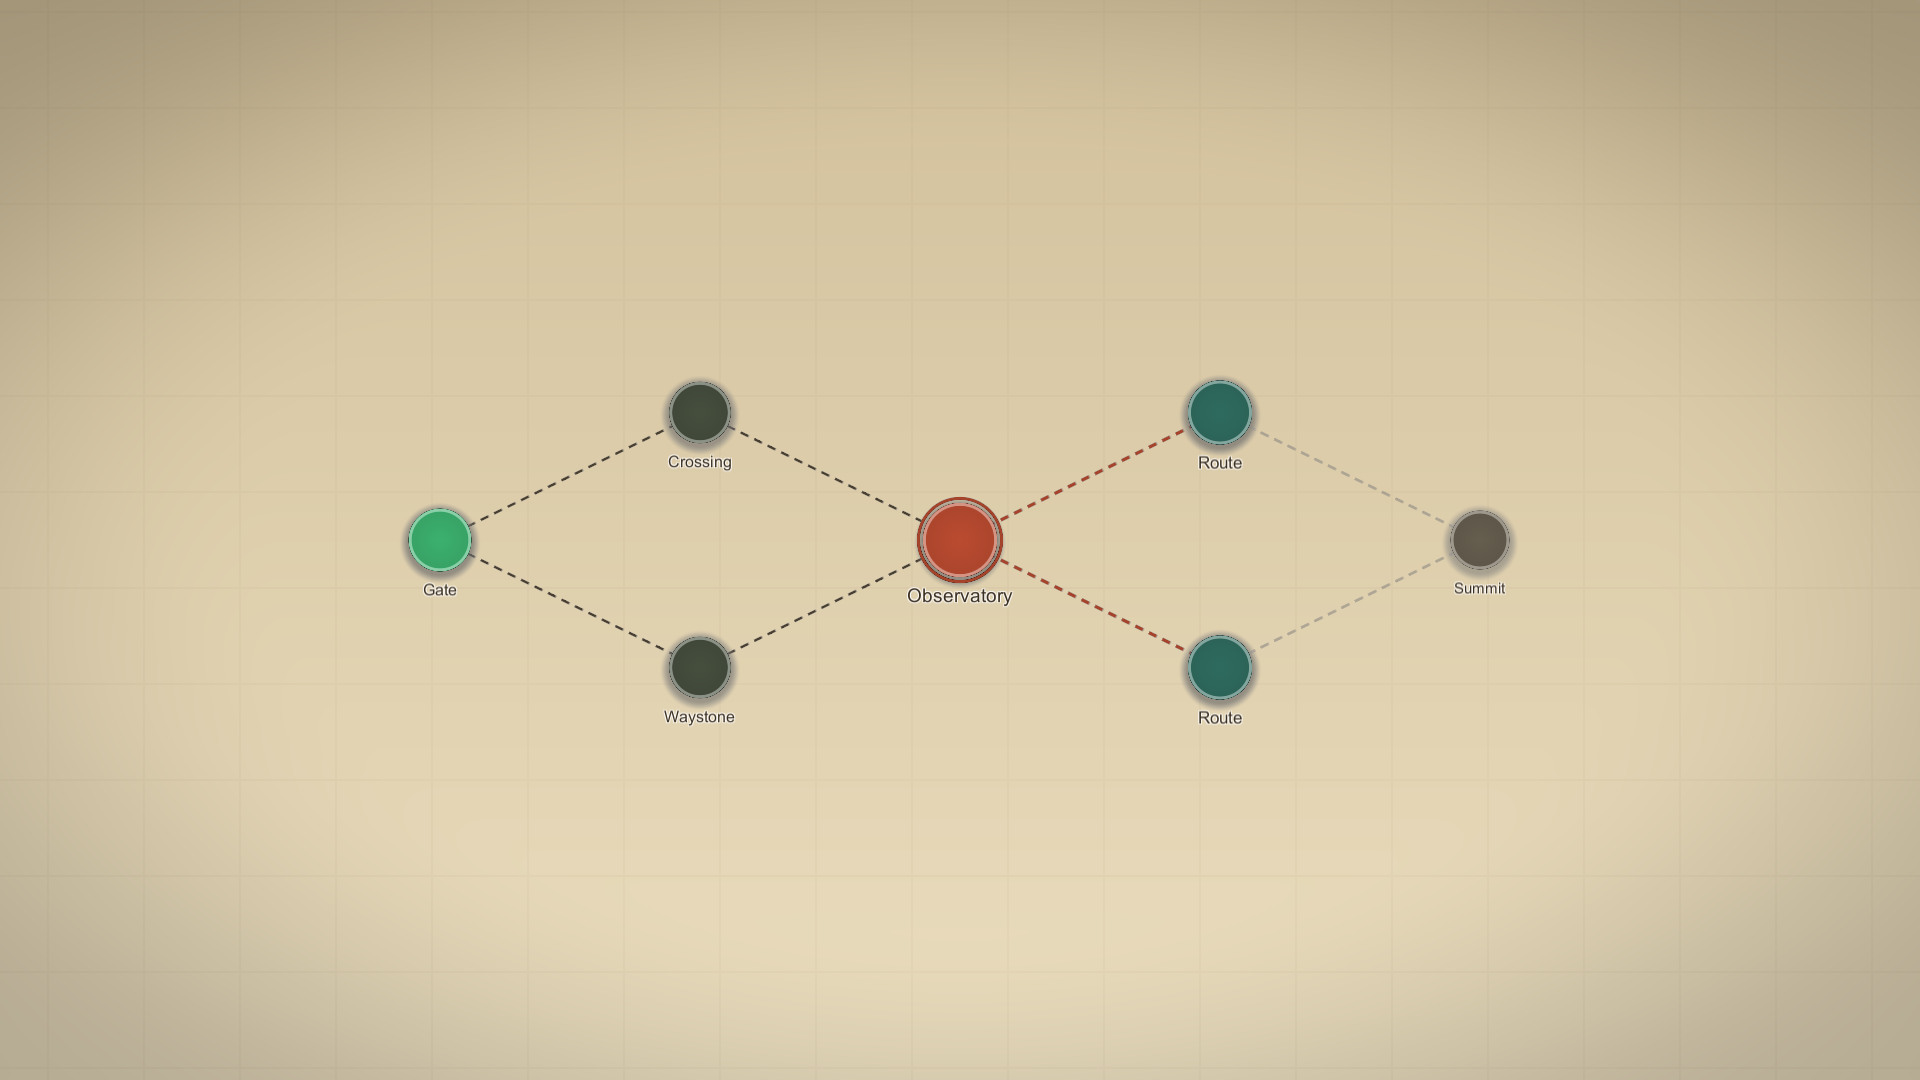
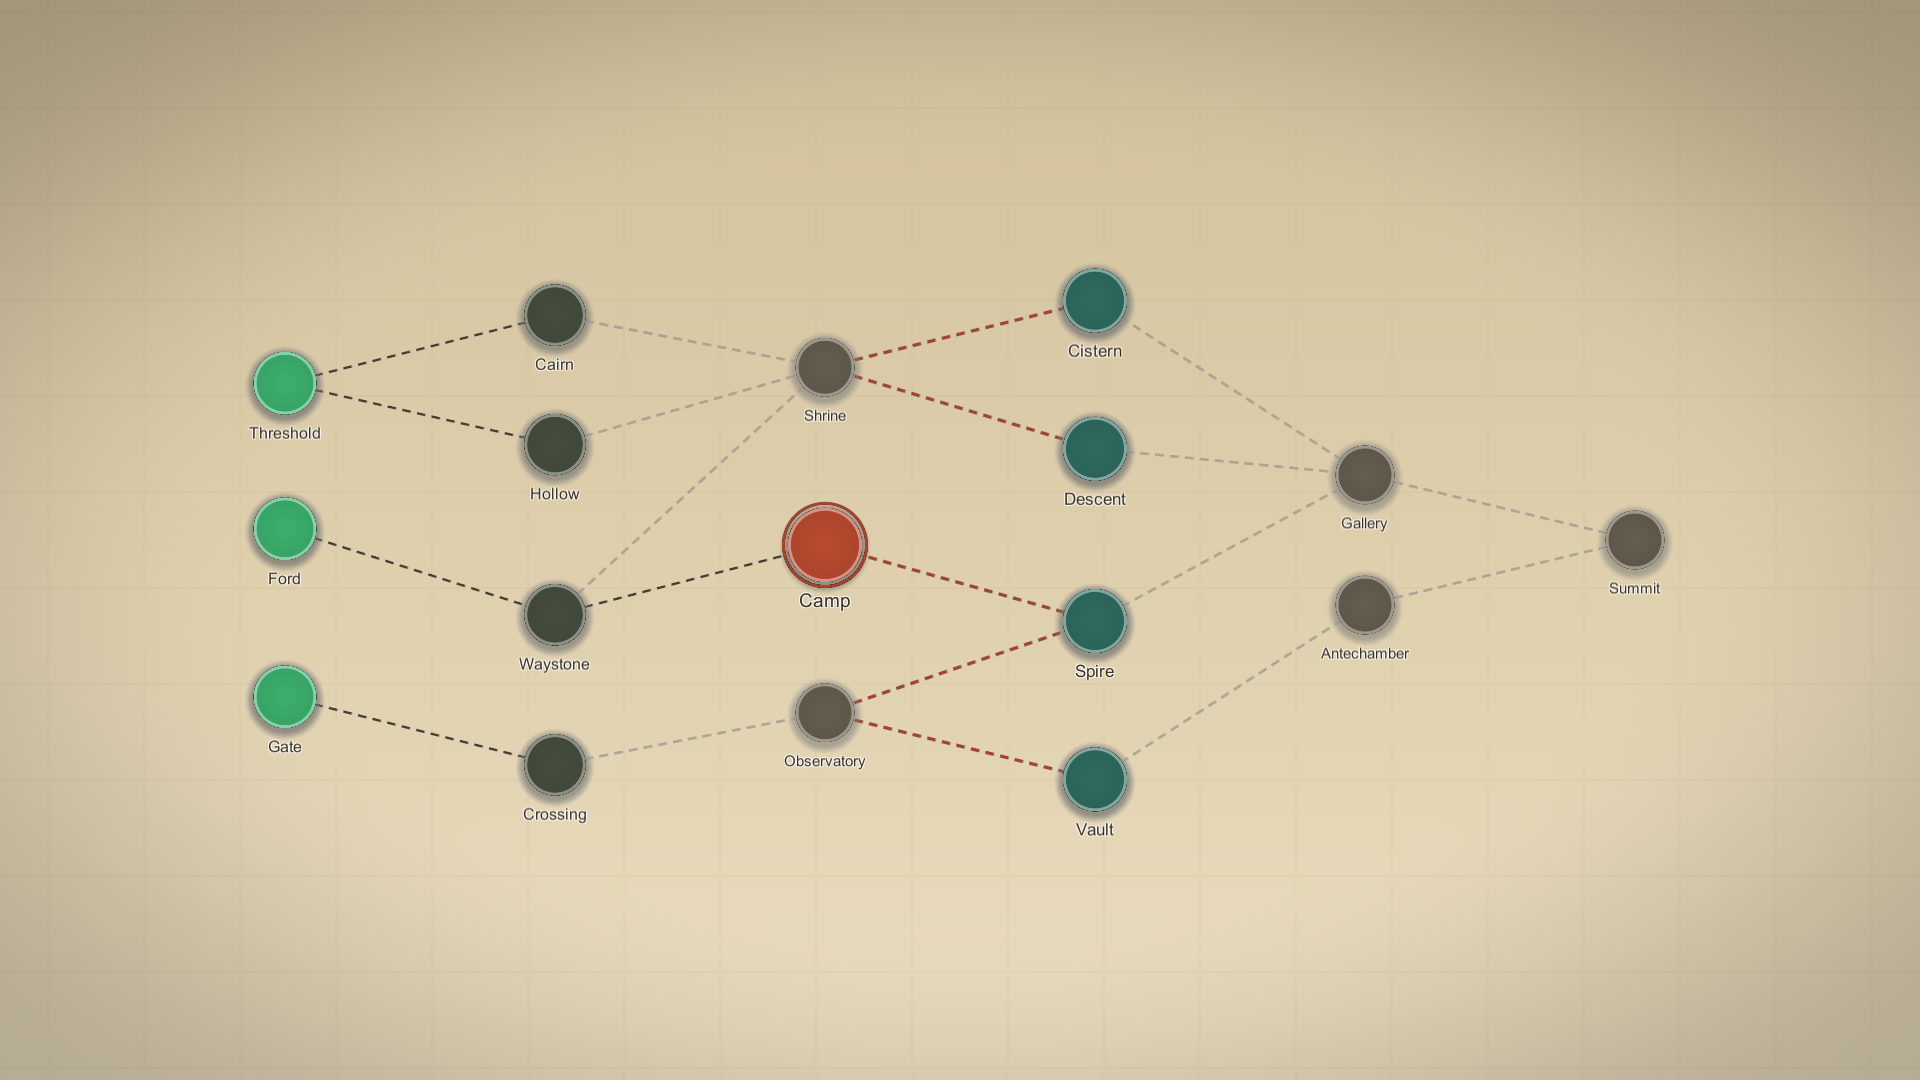
docs: Abyss-shaped map example, flow direction, offsets and padding
The map example was a symmetric diamond. It is now a layered DAG with varying
layer widths (3,4,3,4,2,1), siblings scattered on a min-gap ladder so same-width
layers stop mirroring each other, and a monotone staircase edge walk so roads
merge without crossing -- the shape a shipped descent map actually has. Still a
single summit.

Documents the new MapFlowDirection (bottom-to-top, top-to-bottom, left-to-right,
right-to-left) and spells out the three framing controls that are easy to
confuse: margins reserve screen area, content padding insets the content, and
pan slides it within what is left.

diff --git a/docs/reference/authoring-assets.md b/docs/reference/authoring-assets.md
@@ -1,9 +1,9 @@
 # Authoring assets
 
-27 types in this area.
+28 types in this area.
 
 !!! abstract "On this page"
-    [AuthoringDiagnosticCodes](#authoringdiagnosticcodes) &middot; [BlueprintEdgeAuthoring](#blueprintedgeauthoring) &middot; [BlueprintEdgeOverrideAuthoring](#blueprintedgeoverrideauthoring) &middot; [BlueprintNodeAuthoring](#blueprintnodeauthoring) &middot; [CompiledMapNodeType](#compiledmapnodetype) &middot; [CompiledMapTheme](#compiledmaptheme) &middot; [ForbiddenAdjacencyAuthoring](#forbiddenadjacencyauthoring) &middot; [ForcedNodeAuthoring](#forcednodeauthoring) &middot; [LayerRangeAuthoring](#layerrangeauthoring) &middot; [MapAuthoringCompiler](#mapauthoringcompiler) &middot; [MapBlueprintAsset](#mapblueprintasset) &middot; [MapBlueprintCompilation](#mapblueprintcompilation) &middot; [MapConstraintAsset](#mapconstraintasset) &middot; [MapEdgeGeometryKind](#mapedgegeometrykind) &middot; [MapLayoutOrientation](#maplayoutorientation) &middot; [MapNodeTypeAsset](#mapnodetypeasset) &middot; [MapNodeTypeCompilation](#mapnodetypecompilation) &middot; [MapPropertyAuthoring](#mappropertyauthoring) &middot; [MapRulesAsset](#maprulesasset) &middot; [MapRulesCompilation](#maprulescompilation) &middot; [MapThemeAsset](#mapthemeasset) &middot; [MapThemeCompilation](#mapthemecompilation) &middot; [MapThemeLimits](#mapthemelimits) &middot; [NodeTypeWeightAuthoring](#nodetypeweightauthoring) &middot; [NodeTypeWeightOverrideAuthoring](#nodetypeweightoverrideauthoring) &middot; [QuotaAuthoring](#quotaauthoring) &middot; [ZoneAuthoring](#zoneauthoring)
+    [AuthoringDiagnosticCodes](#authoringdiagnosticcodes) &middot; [BlueprintEdgeAuthoring](#blueprintedgeauthoring) &middot; [BlueprintEdgeOverrideAuthoring](#blueprintedgeoverrideauthoring) &middot; [BlueprintNodeAuthoring](#blueprintnodeauthoring) &middot; [CompiledMapNodeType](#compiledmapnodetype) &middot; [CompiledMapTheme](#compiledmaptheme) &middot; [ForbiddenAdjacencyAuthoring](#forbiddenadjacencyauthoring) &middot; [ForcedNodeAuthoring](#forcednodeauthoring) &middot; [LayerRangeAuthoring](#layerrangeauthoring) &middot; [MapAuthoringCompiler](#mapauthoringcompiler) &middot; [MapBlueprintAsset](#mapblueprintasset) &middot; [MapBlueprintCompilation](#mapblueprintcompilation) &middot; [MapConstraintAsset](#mapconstraintasset) &middot; [MapEdgeGeometryKind](#mapedgegeometrykind) &middot; [MapFlowDirection](#mapflowdirection) &middot; [MapLayoutOrientation](#maplayoutorientation) &middot; [MapNodeTypeAsset](#mapnodetypeasset) &middot; [MapNodeTypeCompilation](#mapnodetypecompilation) &middot; [MapPropertyAuthoring](#mappropertyauthoring) &middot; [MapRulesAsset](#maprulesasset) &middot; [MapRulesCompilation](#maprulescompilation) &middot; [MapThemeAsset](#mapthemeasset) &middot; [MapThemeCompilation](#mapthemecompilation) &middot; [MapThemeLimits](#mapthemelimits) &middot; [NodeTypeWeightAuthoring](#nodetypeweightauthoring) &middot; [NodeTypeWeightOverrideAuthoring](#nodetypeweightoverrideauthoring) &middot; [QuotaAuthoring](#quotaauthoring) &middot; [ZoneAuthoring](#zoneauthoring)
 
 ## AuthoringDiagnosticCodes
 
@@ -660,6 +660,31 @@ public enum MapEdgeGeometryKind
 
 !!! warning "Not yet documented"
     This type has no summary comment in the source. Its name and signature are accurate; the description is missing.
+
+---
+
+## MapFlowDirection
+
+```csharp
+public enum MapFlowDirection
+```
+
+`BranchWeaver.Authoring` &middot; <small>Runtime/Authoring/MapStyleTokens.cs</small>
+
+Which screen direction the map's progress runs in.
+
+The theme decides which axis layers advance along; this decides which
+way along that axis, and is applied when normalized positions are converted
+for display. It is presentation-only, so flipping a map cannot change the
+generated graph, a save, or a fingerprint -- a saved run reopened after a
+direction change is still the same run, drawn the other way round.
+
+| Value | Meaning |
+| --- | --- |
+| `BottomToTop` | Progress runs upward. |
+| `TopToBottom` | Progress runs downward, as in a descent. |
+| `LeftToRight` | Progress runs rightward. |
+| `RightToLeft` | Progress runs leftward, for right-to-left reading orders. |
 
 ---
 

diff --git a/docs/tutorials/styling-your-map.md b/docs/tutorials/styling-your-map.md
@@ -126,6 +126,7 @@ This is how you make the map adjustable on screen:
 
 | Token | Effect |
 | --- | --- |
+| `FlowDirection` | `BottomToTop`, `TopToBottom`, `LeftToRight`, `RightToLeft` |
 | `FitMode` | `Fit`, `Fill`, `FixedScale`, `Stretch` |
 | `MarginLeft/Right/Top/Bottom` | Fractions of the area reserved for **your** interface |
 | `RespectSafeArea` | Inset into the device safe area, for notches and home indicators |
@@ -135,6 +136,42 @@ This is how you make the map adjustable on screen:
 | `PanOverscroll` | How far past the edge panning may rubber-band |
 
 Margins are fractions, so one style works across resolutions.
+
+#### Which way the map runs
+
+`FlowDirection` gives all four:
+
+| Direction | Reads as |
+| --- | --- |
+| `BottomToTop` | Climbing. The classic run-map direction, and the default. |
+| `TopToBottom` | Descending. |
+| `LeftToRight` | A journey across, western reading order. |
+| `RightToLeft` | A journey across, right-to-left reading order. |
+
+The **theme** picks which axis layers advance along; the **style** picks which way along
+it. Direction is applied when normalized positions are converted for display, so it is
+presentation-only: flipping a map cannot change the generated graph, a save, or a
+fingerprint. A run saved climbing and reopened descending is still the same run, drawn
+the other way round.
+
+#### Offsets and padding
+
+Three separate controls, easy to confuse:
+
+| Control | Units | What it does |
+| --- | --- | --- |
+| `MarginLeft/Right/Top/Bottom` | Fraction of the area | Reserves screen space for **your** interface. The map never draws there. |
+| `ContentPadding` | Presentation pixels | Breathing room **around the map content** when fitting, so nodes at the edge are not flush against it. |
+| `MapViewportFrame.Pan` | Pixels | An explicit offset of the map inside its area, clamped by the pan limits. |
+
+So: margins push the *area* in, padding pushes the *content* in, and pan slides the
+content within what is left.
+
+```csharp
+var framing = style.Framing;          // read the resolved values
+frame.Pan = new Vector2(-120f, 40f);  // nudge, clamped automatically
+frame.FrameAll();                     // reset pan and zoom, refit
+```
 
 Add **BranchWeaver > Map Viewport Frame** to the map hierarchy to apply them, then:
 

diff --git a/docs/reference/index.md b/docs/reference/index.md
@@ -1,6 +1,6 @@
 # API reference
 
-Every public type in BranchWeaver, grouped by what it is for rather than by namespace. **245 types.**
+Every public type in BranchWeaver, grouped by what it is for rather than by namespace. **246 types.**
 
 !!! tip "Filter as you type"
     Start typing in the box below to narrow the table. Use the search icon in the header to search the whole site instead.
@@ -46,6 +46,7 @@ Every public type in BranchWeaver, grouped by what it is for rather than by name
 | [`MapBlueprintCompilation`](authoring-assets.md#mapblueprintcompilation) | class | Authoring assets | _Undocumented._ |
 | [`MapConstraintAsset`](authoring-assets.md#mapconstraintasset) | class | Authoring assets | _Undocumented._ |
 | [`MapEdgeGeometryKind`](authoring-assets.md#mapedgegeometrykind) | enum | Authoring assets | _Undocumented._ |
+| [`MapFlowDirection`](authoring-assets.md#mapflowdirection) | enum | Authoring assets | Which screen direction the map's progress runs in. |
 | [`MapLayoutOrientation`](authoring-assets.md#maplayoutorientation) | enum | Authoring assets | _Undocumented._ |
 | [`MapNodeTypeAsset`](authoring-assets.md#mapnodetypeasset) | class | Authoring assets | _Undocumented._ |
 | [`MapNodeTypeCompilation`](authoring-assets.md#mapnodetypecompilation) | class | Authoring assets | _Undocumented._ |

diff --git a/docs/reference/styling-and-appearance.md b/docs/reference/styling-and-appearance.md
@@ -373,6 +373,12 @@ This is the surface behind making a map adjustable on screen: reserve space
 for your own interface with the margins, choose how the map fits, and clamp
 the camera so a player cannot lose the map off-screen.
 
+**Properties**
+
+`public bool IsHorizontalFlow`
+
+:   True when this direction lays progress out horizontally.
+
 **Fields**
 
 `public bool AllowPan`
@@ -396,6 +402,10 @@ the camera so a player cannot lose the map off-screen.
 :   &mdash;
 
 `public float FixedScale`
+
+:   &mdash;
+
+`public MapFlowDirection FlowDirection`
 
 :   &mdash;
 
@@ -424,6 +434,10 @@ the camera so a player cannot lose the map off-screen.
 :   &mdash;
 
 **Methods**
+
+`public Vector2 Orient(Vector2 normalized, bool progressIsVertical)`
+
+:   Transforms a normalized position for display in this flow direction. `progressIsVertical` comes from the theme's orientation: it says which axis the layout advanced layers along. The result is a normalized position in screen terms, where y increases upward.
 
 `public MapFramingTokens Sanitized()`
 

diff --git a/docs/reference/coverage.md b/docs/reference/coverage.md
@@ -4,8 +4,8 @@ Generated from source alongside the reference itself, so it cannot quietly drift
 
 | Scope | Documented | Total | Coverage |
 | --- | --- | --- | --- |
-| Public types | 62 | 245 | 25% |
-| Public members | 117 | 1386 | 8% |
+| Public types | 63 | 246 | 26% |
+| Public members | 119 | 1389 | 9% |
 
 ## By area
 
@@ -13,7 +13,7 @@ Generated from source alongside the reference itself, so it cannot quietly drift
 | --- | --- | --- | --- |
 | [Getting a map](getting-a-map.md) | 12 | 1 | 8% |
 | [Traversal and progression](traversal-and-progression.md) | 8 | 3 | 38% |
-| [Authoring assets](authoring-assets.md) | 27 | 0 | 0% |
+| [Authoring assets](authoring-assets.md) | 28 | 1 | 4% |
 | [Styling and appearance](styling-and-appearance.md) | 28 | 28 | 100% |
 | [Presentation and views](presentation-and-views.md) | 64 | 6 | 9% |
 | [Framing, input and navigation](framing-input-and-navigation.md) | 9 | 4 | 44% |
